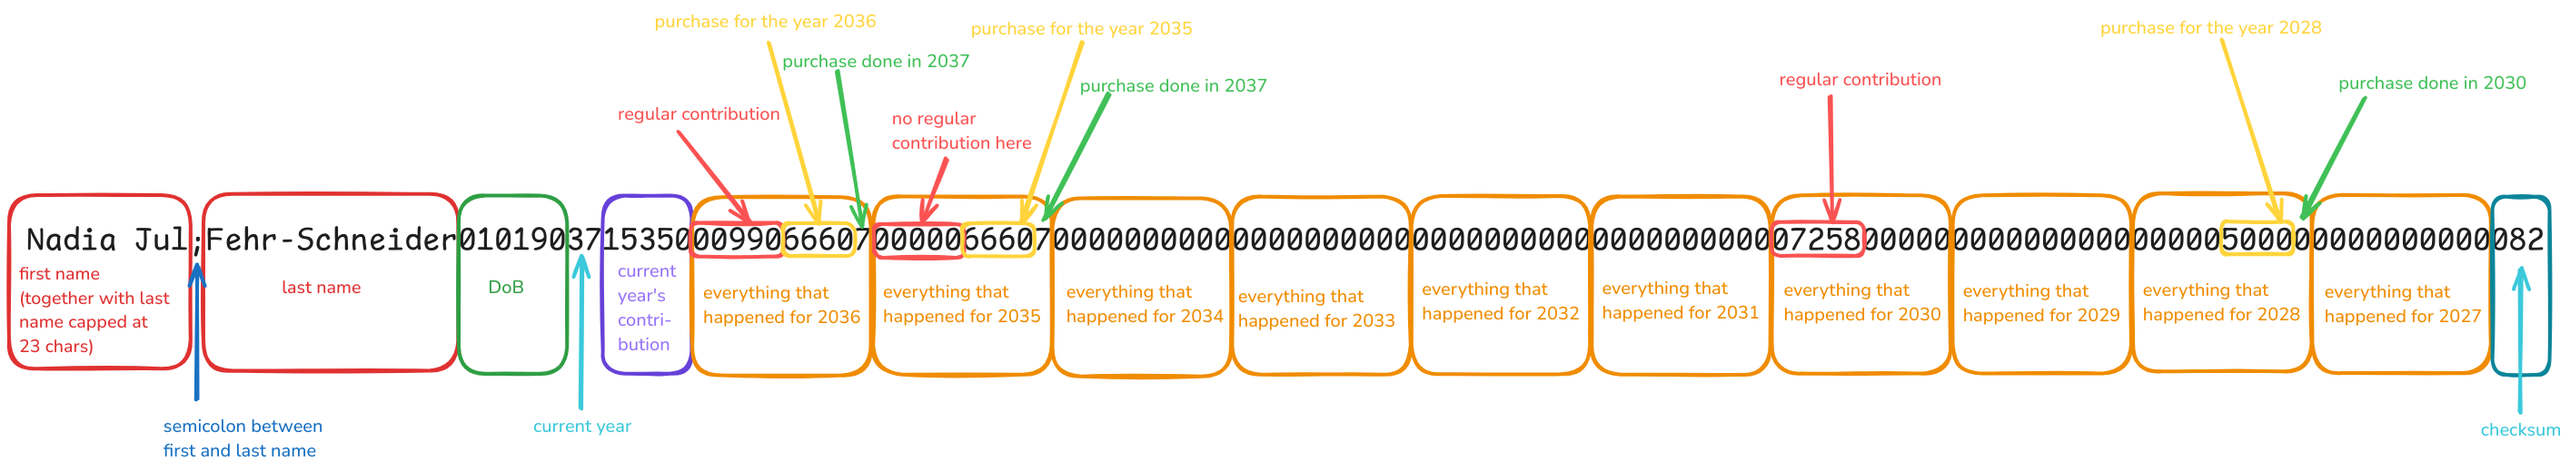
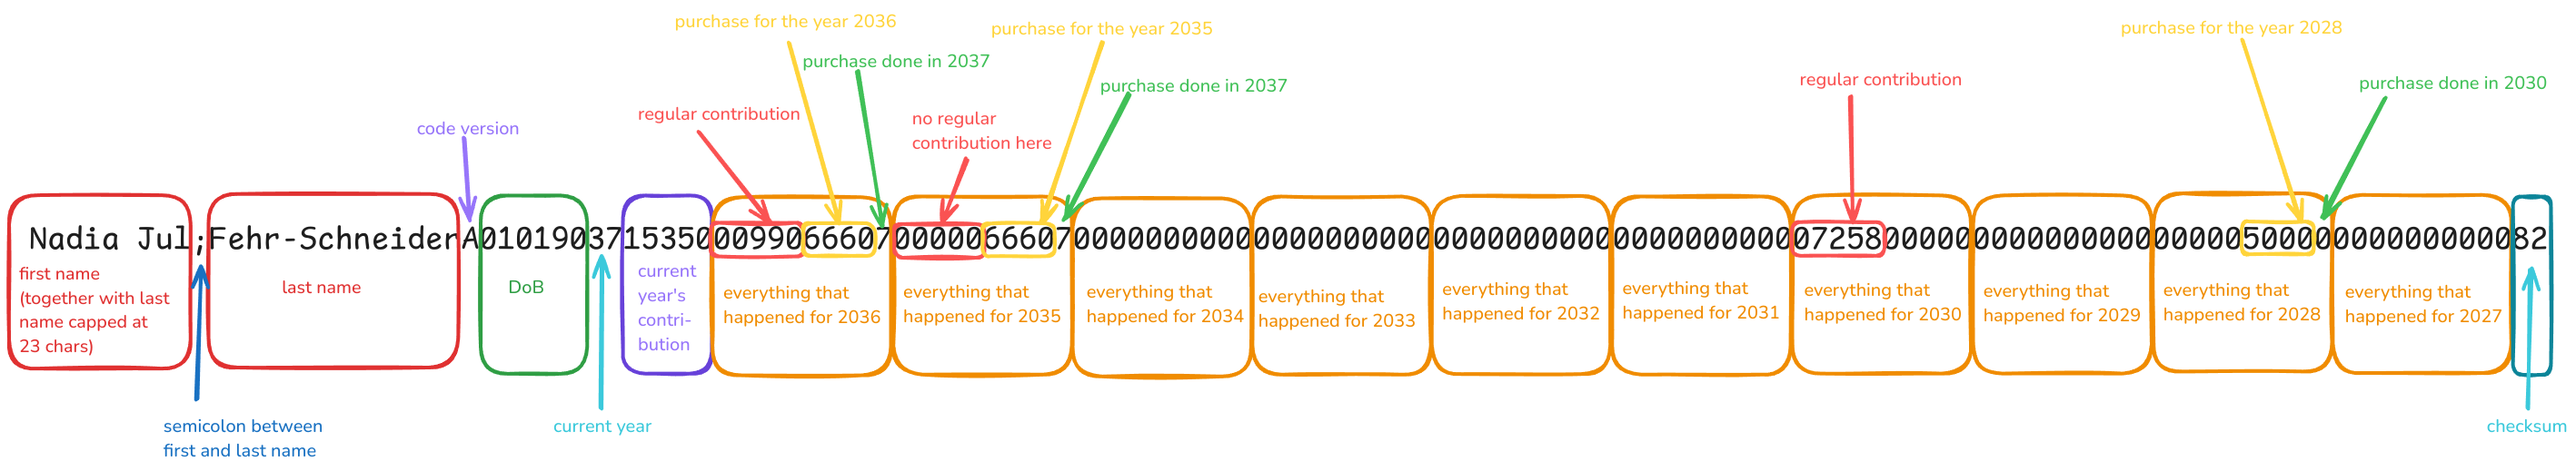
Adjust checksum and add version

diff --git a/index.md b/index.md
@@ -38,12 +38,13 @@ Points considered:
 
 Information we will transfer in transfer Credit Transfer Transaction Information cell as one single line:
 
-`first name;last name10099727153503203566607000000000000000000000000000000000000000000000000000000000000000000000000000000000000000000061`
+`first name;last nameA1009972715350320356660700000000000000000000000000000000000000000000000000000000000000000000000000000000000000000061`
 
 | **Value**  | **Explanation**                                                                                                                                    |
 |------------|----------------------------------------------------------------------------------------------------------------------------------------------------|
 | first name | if client has more than one first name, they are separated by a space                                                                              |
 | last name  | if client has more than one last name, they are separated by a space                                                                               |
+| A          | version used for encoding the transfer reference (currently only version A is available)                                                           |
 | 100997     | client date of birth (ddmmyy)                                                                                                                      |
 | 27         | reference year - indicates current year when the transfer has been initiated                                                                       |
 | 15350      | total contributions in CHF of the current year (2027 in this example)                                                                              |
@@ -55,43 +56,35 @@ Information we will transfer in transfer Credit Transfer Transaction Information
 
 Code would look like this in 2027:
 
-`Mike Mi;Mustermann Mi01019027153503203566607320356660600000000000000000000000000000000000000000000000000000000000000000000000000000000000098`
+`Mike Mi;Mustermann MiA0101902715350320356660732035666060000000000000000000000000000000000000000000000000000000000000000000000000000000000098`
 
 27 - current year; contributions 2027; contributions 2026; purchase 2026; purchase year; contributions 2025; purchase 2025; purchase year; placeholders; checksum
 
 Code without name (starting with date of birth) can look like this in 2037 reach back to 2026 (116 characters):
 
-`01010137153503203566607320356660632035666053203566604320356660332035666023203566601320356660032035666093203566608379`
[1 lines of base64/hex data omitted]
 
 [<img src="./assets/img/3a-transfer-reference.png" alt="3a Transfer Reference Visualization">](./assets/img/3a-transfer-reference.png)
 
 ## Checksum
 
-The checksum of the numbers (sum of all digits in the data) is calculated and then taken modulo 1000 to ensure that the checksum is a maximum of 3 characters long.
+In order to ensure that the data has been transferred correctly, a checksum is added to the code. [Mod 97](https://en.wikipedia.org/wiki/International_Bank_Account_Number#Modulo_operation_on_IBAN) (same as for IBAN) is used to calculate the checksum.
 
-The name part is not included in the checksum, checksum starts with date of birth.
+The name part is not included in the checksum, checksum starts with version code.
 
 the following components are included in the checksum:
 
+*   version
 *   date of birth
 *   reference year
 *   all regular contributions
 *   all purchases
 *   all year numbers
-
-Example:  
-Data: `Firstname;lastname10099727153503203566607220351560600...00`
-
-Cross sum: 1+0+0+9+9+7+2+7+1+5+3+5+0+3+2+0+3+5+6+6+6+0+7+2+2+0+3+5+1+5+6+0+6+0+0+0+0+0+...+0+0 = 117
-
-Checksum: 117 % 1000 = 117
+*   checksum
 
 ## Structure
 
-The code does not contain any semi-colons or other separators. The number of characters for a year or a contribution amount is always fixed with 0 padding on left side (see example below ‘Example same number of characters in code’), the code always has the same length, namely exactly 116 characters. These 116 characters are made up as follows:
-
-*   110 characters for whole contributions / purchase history
-*   6 characters for date of birth
+The code does not contain any semi-colons or other separators. The number of characters for a year or a contribution amount is always fixed with 0 padding on left side (see example below ‘Example same number of characters in code’), the code always has the same length, namely exactly 116 characters.
 
 This means that up to 24 characters are available for the name area. One character must be subtracted for a semi-colon that is used to separate the first and last name.
 
@@ -103,14 +96,16 @@ Only first and last name may contain spaces. Any other spaces / newlines added f
 
 Up to 23 characters are available for the first and last name. If the combination of first and last name is shorter than 23 characters, no placeholders should be added. If the combination of first and last name is longer than 23 characters, then the first name is truncated to 9 characters. The last name is truncated to 14 characters.
 
-For example, if a customers first name is “Mike” and the last name is “Mills” the code will look like this: `Mike;Mills01019027153503203566607320356660600000000000000000000000000000000000000000000000000000000000000000000000000000000000098`
+For example, if a customers first name is “Mike” and the last name is “Mills” the code will look like this: `Mike;MillsA0101902715350320356660732035666060000000000000000000000000000000000000000000000000000000000000000000000000000000000098`
 
 ### Summary
 
 | **Number of characters**                              | **Value**                                                  |
 |-------------------------------------------------------|------------------------------------------------------------|
-| 110                                                   | Contributions / purchase history                           |
+| 1                                                     | Version (currently only version A is available)            |
+| 107                                                   | Contributions / purchase history                           |
 | 6                                                     | Date of birth                                              |
+| 2                                                     | Checksum                                                   |
 | min. 14 if available, dynamic, first + last = max. 23 | Last name                                                  |
 | 1                                                     | Separate last - and first name with `;`                    |
 | min. 9 if available, dynamic, first + last = max. 23  | First Name                                                 |
@@ -121,8 +116,9 @@ For example, if a customers first name is “Mike” and the last name is “Mil
 ### What if a client has no contribution or purchase made in a year?
 
 *   Each number always contains exactly the same number of digits. If, for example, no purchase is made in a year, this is entered as `0000`. This ensures that the code always has the same length and can be read by the system.
-*   Example: Mike Mustermann made no purchases for 2026 and paid no regular contributions in 2027. The code then looks like this: `Mike Mint;Mustermann Mi2700120320350000000...0098`
+*   Example: Mike Mustermann made no purchases for 2026 and paid no regular contributions in 2027. The code then looks like this: `Mike Mint;Mustermann MiA2700120320350000000...0098`
     *   `Mike Mint;Mustermann Mi` → Name
+    *   `A` → version
     *   `27` → reference year
     *   `00120` → CHF 120 regular contributions in 2027
     *   `32035` → regular contributions in 2026
@@ -149,7 +145,7 @@ As gaps in the 3a can only occur from 2025, placeholders for the years before 20
 
 Example how the code in 2027 will look like:
 
-`Mike Mi;Mustermann Mi01019027153503203566607320356660600000000000000000000000000000000000000000000000000000000000000000000000000000000000098`
+`Mike Mi;Mustermann MiA0101902715350320356660732035666060000000000000000000000000000000000000000000000000000000000000000000000000000000000098`
 
 ### What if a customer's first name and last name are longer than they should be?
 
@@ -162,7 +158,7 @@ Example how the code in 2027 will look like:
     *   a clients first name is “Mike” → 4 characters
     *   a clients last name is “Miller Mustermann Zimmermann” → 28 characters
 *   in this case, the leftover character created by the short first name ‘mike’ can be used by the last name
-*   the total characters for first and last name is more than 23 so the last name will be shortened*   The code will look like: `Mike;Miller Mustermann Z010199....`
+*   the total characters for first and last name is more than 23 so the last name will be shortened*   The code will look like: `Mike;Miller Mustermann ZA010199....`
     *   Mike → total name is displayed
     *   Miller Mustermann Zimmermann → is shortened to “Miller Mustermann Z”
 *   the same rule applies, if the last name is shorter than 14 characters, the leftover characters can be use for the first name
@@ -198,11 +194,12 @@ Code separated by semi-colon for better readability: …27;15350;32035;6660;7220
     *   Decimal figures >=5 are rounded up
     *   Decimal figures <=4 are rounded down
     *   Example of a use case: Customer pays CHF 1150.55 into pillar 3a. This amount is shown in the code as 1151
-    *   Applying this rule corresponds to the practice in the tax procedure. See [tax statement](https://www.estv.admin.ch/dam/estv/de/dokumente/dbst/formulare/dbst-form-2011-21edp-de.pdf.download.pdf/dbst-form-2011-21edp-de.pdf "https://www.estv.admin.ch/dam/estv/de/dokumente/dbst/formulare/dbst-form-2011-21edp-de.pdf.download.pdf/dbst-form-2011-21edp-de.pdf") or [ZH tax declaration](https://www.zh.ch/content/dam/zhweb/bilder-dokumente/themen/steuern-finanzen/steuern/natuerlichepersonen/2022/est-wegleitungen/305_wegleitung_zh_2022_ha_bf_def.pdf "https://www.zh.ch/content/dam/zhweb/bilder-dokumente/themen/steuern-finanzen/steuern/natuerlichepersonen/2022/est-wegleitungen/305_wegleitung_zh_2022_ha_bf_def.pdf").    
+    *   Applying this rule corresponds to the practice in the tax procedure. See [tax statement](https://www.estv.admin.ch/dam/estv/de/dokumente/dbst/formulare/dbst-form-2011-21edp-de.pdf.download.pdf/dbst-form-2011-21edp-de.pdf "https://www.estv.admin.ch/dam/estv/de/dokumente/dbst/formulare/dbst-form-2011-21edp-de.pdf.download.pdf/dbst-form-2011-21edp-de.pdf") or [ZH tax declaration](https://www.zh.ch/content/dam/zhweb/bilder-dokumente/themen/steuern-finanzen/steuern/natuerlichepersonen/2022/est-wegleitungen/305_wegleitung_zh_2022_ha_bf_def.pdf).    
 
 ## External references
 
-*   SIX Swiss Payment Standards: [https://www.six-group.com/dam/download/banking-services/standardization/sps/ig-credit-transfer-v2.0.2-de.pdf](https://www.six-group.com/dam/download/banking-services/standardization/sps/ig-credit-transfer-v2.0.2-de.pdf "https://www.six-group.com/dam/download/banking-services/standardization/sps/ig-credit-transfer-v2.0.2-de.pdf")
-*   Form.21EDP dfi/A4: [https://www.estv.admin.ch/dam/estv/de/dokumente/dbst/formulare/dbst-form-2011-21edp-de.pdf.download.pdf/dbst-form-2011-21edp-de.pdf](https://www.estv.admin.ch/dam/estv/de/dokumente/dbst/formulare/dbst-form-2011-21edp-de.pdf.download.pdf/dbst-form-2011-21edp-de.pdf "https://www.estv.admin.ch/dam/estv/de/dokumente/dbst/formulare/dbst-form-2011-21edp-de.pdf.download.pdf/dbst-form-2011-21edp-de.pdf")
-*   BFS Vor- und Nachnamen in der Schweiz: [https://www.bfs.admin.ch/bfs/de/home/statistiken/bevoelkerung/geburten-todesfaelle/namen-schweiz.html](https://www.bfs.admin.ch/bfs/de/home/statistiken/bevoelkerung/geburten-todesfaelle/namen-schweiz.html "https://www.bfs.admin.ch/bfs/de/home/statistiken/bevoelkerung/geburten-todesfaelle/namen-schweiz.html")
-*   ZH Wegleitung zur Steuererklärung: [https://www.zh.ch/content/dam/zhweb/bilder-dokumente/themen/steuern-finanzen/steuern/natuerlichepersonen/2022/est-wegleitungen/305\_wegleitung\_zh\_2022\_ha\_bf\_def.pdf](https://www.zh.ch/content/dam/zhweb/bilder-dokumente/themen/steuern-finanzen/steuern/natuerlichepersonen/2022/est-wegleitungen/305_wegleitung_zh_2022_ha_bf_def.pdf "https://www.zh.ch/content/dam/zhweb/bilder-dokumente/themen/steuern-finanzen/steuern/natuerlichepersonen/2022/est-wegleitungen/305_wegleitung_zh_2022_ha_bf_def.pdf")
+*   SIX Swiss Payment Standards: [https://www.six-group.com/dam/download/banking-services/standardization/sps/ig-credit-transfer-v2.0.2-de.pdf](https://www.six-group.com/dam/download/banking-services/standardization/sps/ig-credit-transfer-v2.0.2-de.pdf)
+*   Form.21EDP dfi/A4: [https://www.estv.admin.ch/dam/estv/de/dokumente/dbst/formulare/dbst-form-2011-21edp-de.pdf.download.pdf/dbst-form-2011-21edp-de.pdf](https://www.estv.admin.ch/dam/estv/de/dokumente/dbst/formulare/dbst-form-2011-21edp-de.pdf.download.pdf/dbst-form-2011-21edp-de.pdf)
+*   BFS Vor- und Nachnamen in der Schweiz: [https://www.bfs.admin.ch/bfs/de/home/statistiken/bevoelkerung/geburten-todesfaelle/namen-schweiz.html](https://www.bfs.admin.ch/bfs/de/home/statistiken/bevoelkerung/geburten-todesfaelle/namen-schweiz.html)
+*   ZH Wegleitung zur Steuererklärung: [https://www.zh.ch/content/dam/zhweb/bilder-dokumente/themen/steuern-finanzen/steuern/natuerlichepersonen/2022/est-wegleitungen/305\_wegleitung\_zh\_2022\_ha\_bf\_def.pdf](https://www.zh.ch/content/dam/zhweb/bilder-dokumente/themen/steuern-finanzen/steuern/natuerlichepersonen/2022/est-wegleitungen/305_wegleitung_zh_2022_ha_bf_def.pdf)
+*   Mod 97: [https://en.wikipedia.org/wiki/International_Bank_Account_Number#Modulo_operation_on_IBAN](https://en.wikipedia.org/wiki/International_Bank_Account_Number#Modulo_operation_on_IBAN)
